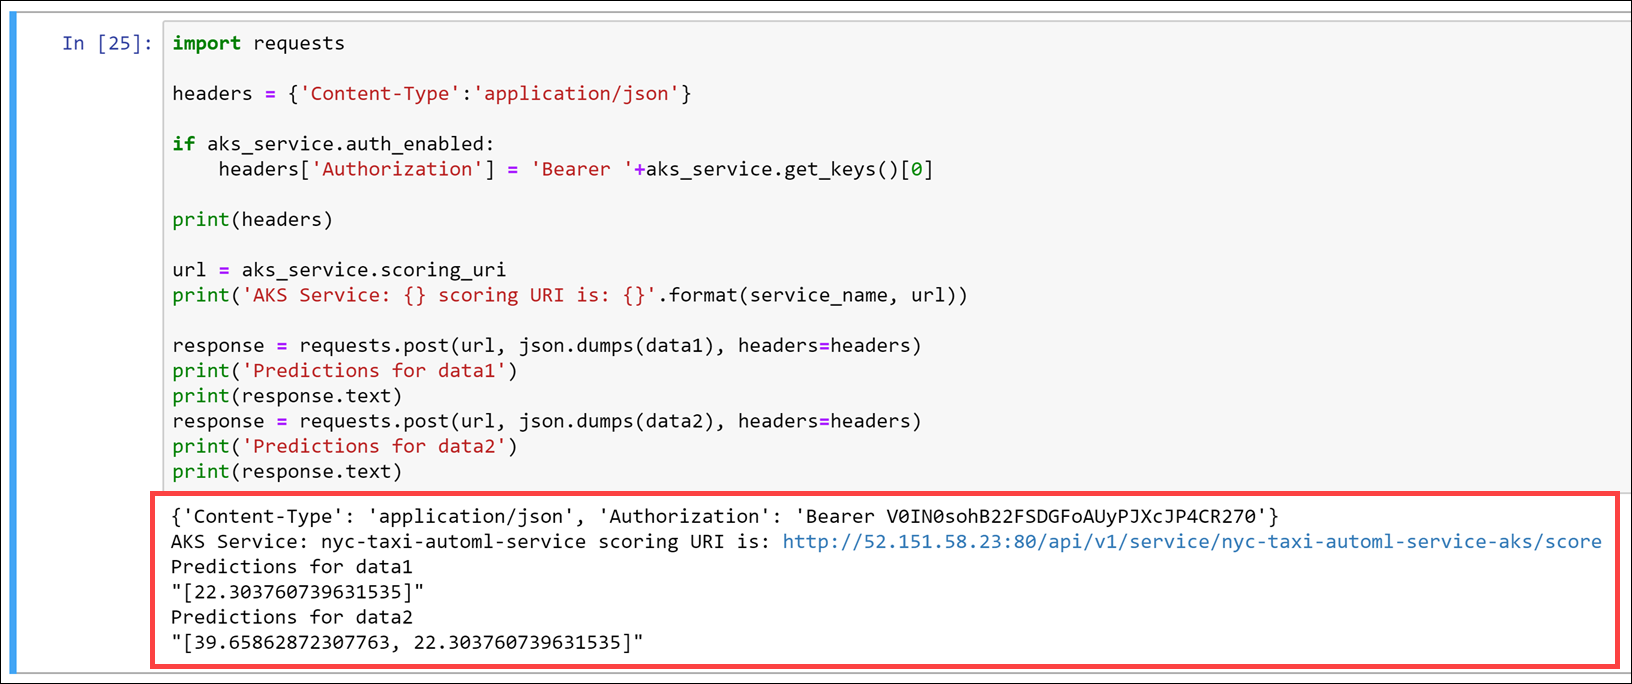
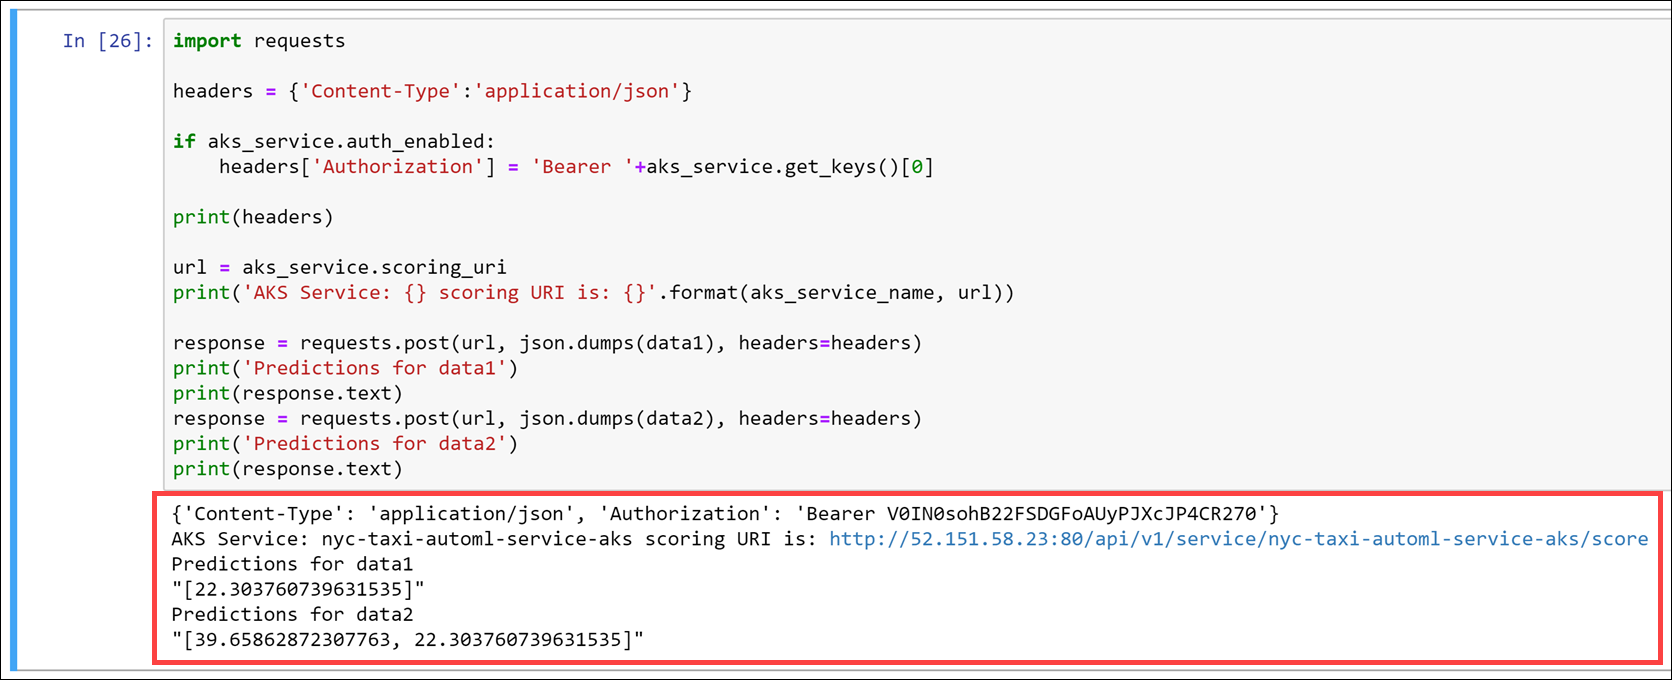
Script tweek

diff --git a/model-deployment/real-time-inferencing.md b/model-deployment/real-time-inferencing.md
@@ -396,7 +396,7 @@ if aks_service.auth_enabled:
 print(headers)
 
 url = aks_service.scoring_uri
-print('AKS Service: {} scoring URI is: {}'.format(service_name, url))
+print('AKS Service: {} scoring URI is: {}'.format(aks_service_name, url))
 
 response = requests.post(url, json.dumps(data1), headers=headers)
 print('Predictions for data1')
